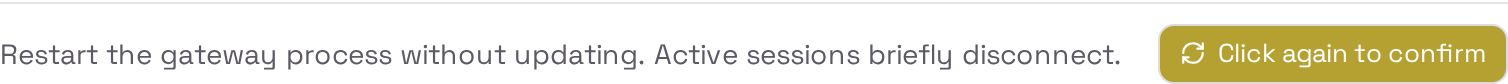
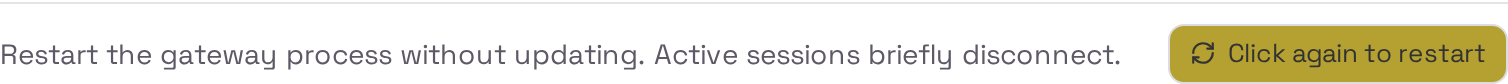
fix(about): pair the armed restart button with its theme foreground
Two UX-review findings on #2473 that arrived after it had already been
squash-merged, so they land as a follow-up rather than an amend.

Armed restart button was unreadable in the default theme
--------------------------------------------------------
`RestartGatewayButton` set `!bg-[var(--warn)] !text-white`. `--warn` is
theme-owned and is a light yellow in several themes (`#eab308` in the
default), where the matching `--warn-fg` is `#000`. White on that is poor
contrast at the one moment the user must read a changed label to avoid an
accidental session-dropping restart. Pairs the background with its own
foreground token instead.

Verified from the live DOM rather than by eye: the armed control computes to
`color: rgb(0, 0, 0)` on `background: rgb(163, 138, 0)`, matching
`--warn-fg: #000`.

Switch note could point at a command that was not there
-------------------------------------------------------
The pending-switch note reads "run the command below to actually move this
install onto it", but it rendered whenever the followed channel differed from
the running build's lane -- including when no command had resolved (failed
check, offline host), leaving the sentence dangling. This is the same
dangling-reference class as the `available`-gating bug fixed during #2473's
review; the note now also requires a command to point at.

Screenshots re-captured against this build. The ones committed on #2473 were
taken before its final two review rounds, so they showed "Click again to
[…]

Changed region(s): [[0.748, 0.2857, 0.9973, 1.0]]

diff --git a/website/src/pages/settings/AboutPanel.tsx b/website/src/pages/settings/AboutPanel.tsx
@@ -260,7 +260,7 @@ function RestartGatewayButton({
   return (
     <Btn
       primary={primary && !armed}
-      className={armed ? '!bg-[var(--warn)] !text-white hover:!opacity-80' : undefined}
+      className={armed ? '!bg-[var(--warn)] !text-[var(--warn-fg)] hover:!opacity-80' : undefined}
       disabled={busy}
       data-testid={testId}
       // No static aria-label: the visible text IS the accessible name, and it is
@@ -873,6 +873,11 @@ export function AboutPanel() {
                 bytes have moved. It must not hide behind the disclosure: the
                 misreading happens precisely to the user who did not open it.
 
+                Requires a command to point at: the sentence says "run the
+                command below", so with no command resolved (failed check, offline
+                host) it would dangle exactly like the `available`-gated version
+                did.
+
                 Stands down while the explainer is open, because the explainer's
                 closing line is this very sentence and the two rendered back to
                 back read as a stutter at exactly the moment the user is reading
@@ -884,6 +889,7 @@ export function AboutPanel() {
                 the line retires itself. */}
             {!gwChannelMutation.isError
               && !showChannelHelp
+              && !!effectiveCommand
               && !!gatewayChannel
               && effectiveGwChannel !== gatewayChannel && (
               <span className="text-[12px] text-muted flex items-start gap-1.5"

diff --git a/website/src/test/AboutPanel.gatewayChannelRestart.test.tsx b/website/src/test/AboutPanel.gatewayChannelRestart.test.tsx
@@ -181,13 +181,29 @@ describe('AboutPanel gateway channel switcher', () => {
     stubFetch()
     // Followed channel (insider) differs from the lane the running bytes came
     // from (stable) -- exactly the window where the two disagree.
-    seedStatus({ update_channel: 'insider', release_channel: 'stable' })
+    seedStatus({
+      update_channel: 'insider',
+      release_channel: 'stable',
+      update_command: 'curl -fsSL https://example.test/cli.sh | sh -s -- --channel insider',
+    })
     mountWeb()
 
     await screen.findByTestId('gateway-channel-switcher')
     // Visible with the disclosure still collapsed.
     expect(screen.queryByTestId('gateway-channel-help')).toBeNull()
     expect(screen.getByTestId('gateway-channel-pending-note')).toBeTruthy()
+  })
+
+  it('withholds the switch note when there is no command for it to point at', async () => {
+    // The sentence says "run the command below". With no command resolved (failed
+    // check, offline host) it would dangle, the same way it did when it was gated
+    // on `available` alone.
+    stubFetch()
+    seedStatus({ update_channel: 'insider', release_channel: 'stable', update_command: '' })
+    mountWeb()
+
+    await screen.findByTestId('gateway-channel-switcher')
+    expect(screen.queryByTestId('gateway-channel-pending-note')).toBeNull()
   })
 
   it('retires the switch note once the followed lane matches the running build', async () => {
